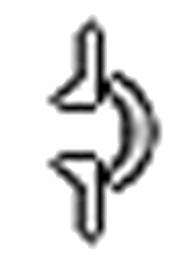
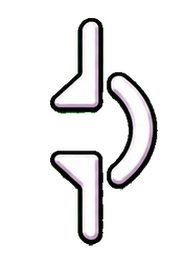
assets: prune sprite set options

Changed region(s): [[0.2557, 0.0312, 0.9375, 0.9688]]

diff --git a/src/flux_reticle/CombatPlugin.java b/src/flux_reticle/CombatPlugin.java
@@ -185,14 +185,10 @@ public class CombatPlugin implements EveryFrameCombatPlugin {
             SEG_TOP | SEG_UPPER_RIGHT | SEG_LOWER_RIGHT | SEG_BOTTOM | SEG_UPPER_LEFT | SEG_MIDDLE
     };
     static final String
-            DEFAULT_SPRITE_SET = "8xNearestEdgeCleaned",
+            DEFAULT_SPRITE_SET = "8xLanczosEdgeCleaned",
             SPRITE_SET_ROOT = "Root4xLanczos",
             SPRITE_SET_VANILLA = "Vanilla1x",
-            SPRITE_SET_4X_LANCZOS = "4xLanczos",
-            SPRITE_SET_4X_NEAREST = "4xNearest",
             SPRITE_SET_8X_LANCZOS_EDGE_CLEANED = "8xLanczosEdgeCleaned",
-            SPRITE_SET_8X_NEAREST_EDGE_CLEANED = "8xNearestEdgeCleaned",
-            SPRITE_SET_AI_GENERATED_FULL_8X = "AIGeneratedFullSet8x",
             DEFAULT_FRONT_SPRITE_VARIANT = "CurrentSpriteSet",
             FRONT_VARIANT_ROOT = "shat_fr/graphics/front_variants/";
     static final String[] FRONT_VARIANT_FOLDERS = new String[] {
@@ -597,11 +593,8 @@ public class CombatPlugin implements EveryFrameCombatPlugin {
     String getSpriteSetFolder(String configuredSpriteSet) {
         if (SPRITE_SET_ROOT.equals(configuredSpriteSet)) return "";
         if (SPRITE_SET_VANILLA.equals(configuredSpriteSet)) return "backup";
-        if (SPRITE_SET_4X_LANCZOS.equals(configuredSpriteSet)) return "upscaled_4x_lanczos";
-        if (SPRITE_SET_4X_NEAREST.equals(configuredSpriteSet)) return "upscaled_4x_nearest";
         if (SPRITE_SET_8X_LANCZOS_EDGE_CLEANED.equals(configuredSpriteSet)) return "upscaled_8x_lanczos_edge_cleaned";
-        if (SPRITE_SET_AI_GENERATED_FULL_8X.equals(configuredSpriteSet)) return "ai_generated_full_set_8x";
-        return "upscaled_8x_nearest_edge_cleaned";
+        return "upscaled_8x_lanczos_edge_cleaned";
     }
 
     SpriteAPI loadSpriteFromSet(String configuredSpriteSet, String fileName) throws IOException {

diff --git a/.agent/BRIEF.md b/.agent/BRIEF.md
@@ -13,11 +13,11 @@ Flux Reticle Fork is a buildable and deployable Starsector mod fork with a separ
 - Deploy name: `flux-reticle-fork-deploy`
 - Eventual public organization: `https://github.com/Shattersphere-Mods`
 
-The fork adds Luna/INI customization for reticle geometry, flux bar background border and fill inset, full-opacity hard/soft flux top dividers, divider height, optional soft-flux top divider, sprite-set selection including bundled AI-generated 8x art, front wing-gap sprite variants through `wings_100pct_further_apart`, optional 25/50/75 bar marker sprites, optional half-sprite markers at all bar marker positions, a reticle-local ship-system marker with optional charge-count text size/thickness controls anchored to the top of the flux bar, front cursor graphic scale, separate top/body lateral offsets, point-blank bar visibility, RGBA colors, high-flux flashing, and the separate flux-change flash pulse. The old upstream UI-color override gate is removed, so configured RGBA values apply directly.
+The fork adds Luna/INI customization for reticle geometry, flux bar background border and fill inset, full-opacity hard/soft flux top dividers, divider height, optional soft-flux top divider, sprite-set selection for bundled root, vanilla, and 8x Lanczos edge-cleaned art, front wing-gap sprite variants through `wings_100pct_further_apart`, optional 25/50/75 bar marker sprites, optional half-sprite markers at all bar marker positions, a reticle-local ship-system marker with optional charge-count text size/thickness controls anchored to the top of the flux bar, front cursor graphic scale, separate top/body lateral offsets, point-blank bar visibility, RGBA colors, high-flux flashing, and the separate flux-change flash pulse. The old upstream UI-color override gate is removed, so configured RGBA values apply directly.
 
 ## Known-Good Baseline
 
-- Latest runtime code baseline: sprite-set selector including the AI-generated full 8x set, front wing-gap sprite variants through `wings_100pct_further_apart`, optional 25/50/75 marker sprites, optional half-sprite markers at all bar marker positions, reticle-local ship-system marker ring with charge-count text size/thickness controls, flux fills under marker sprites, flux bar background border/fill inset/divider height controls, full-opacity hard/soft flux top dividers, optional soft-flux top divider, front cursor graphic scale, separate top/body lateral offsets, fixed logical sprite sizing for high-res assets, and flux-change flash toggle.
+- Latest runtime code baseline: sprite-set selector for bundled root, vanilla, and 8x Lanczos edge-cleaned art, front wing-gap sprite variants through `wings_100pct_further_apart`, optional 25/50/75 marker sprites, optional half-sprite markers at all bar marker positions, reticle-local ship-system marker ring with charge-count text size/thickness controls, flux fills under marker sprites, flux bar background border/fill inset/divider height controls, full-opacity hard/soft flux top dividers, optional soft-flux top divider, front cursor graphic scale, separate top/body lateral offsets, fixed logical sprite sizing for high-res assets, and flux-change flash toggle.
 - Latest deploy state observed in this pass: `waiting` for target `C:\Games\Starsector\mods\Flux Reticle Fork` after clean worktree deploy run `03b0b1e5-a826-4a02-8f92-37aa65c7f105` from `D:\Sean Mods\.deploy-worktrees\FluxReticle-260f899`; worker pid `34132` is queued because Starsector is running.
 - Last known-good build command: `powershell -ExecutionPolicy Bypass -File scripts\build_mod.ps1 -StarsectorDirectory 'C:\Games\Starsector'`.
 - Runtime behavior remains not in-game verified after recent rendering/settings changes.

diff --git a/HANDOVER.md b/HANDOVER.md
@@ -51,7 +51,7 @@ This repo is a working Starsector mod fork, not just source notes. Keep runtime 
 - Hard and soft flux top dividers render at full configured divider opacity whenever their flux segment exists; divider alpha is not scaled by the current flux amount.
 - Soft/hard flux fills render below the quarter/half/back marker sprites and hard-flux divider.
 - Reticle sprite assets are rendered at legacy logical dimensions, so 4x PNG replacements improve pixel density without making the reticle larger.
-- `spriteSet` is a Luna/INI selector for bundled sprite folders, including the AI-generated full 8x set. Default is `8xNearestEdgeCleaned`.
+- `spriteSet` is a Luna/INI selector for bundled sprite folders. Current selectable sets are root, vanilla backup, and `8xLanczosEdgeCleaned`; default is `8xLanczosEdgeCleaned`.
 - Distance settings are normalized to half the visible screen height.
 - `enableFluxChangeFlash` controls only the extra flux-change pulse; threshold-based flashing still follows the flash threshold/frequency settings.
 - `keepBarVisibleAtMinimumDistance` defaults on and prevents the flux bar from fading out at point blank range.

diff --git a/README.md b/README.md
@@ -32,7 +32,7 @@ Fork of Flux Reticle with a separate Starsector identity and LunaLib-facing cust
 - Optional 25%, 50%, and 75% bar marker sprites.
 - Option to use the half bar marker sprite at the quarter, middle, and three-quarter positions.
 - Optional soft-flux top divider using the same divider styling as the hard/soft boundary.
-- LunaLib sprite-set selector for the bundled vanilla, 4x, 8x, and AI-generated 8x reticle art sets.
+- LunaLib sprite-set selector for the bundled root, vanilla, and 8x Lanczos edge-cleaned reticle art sets.
 - LunaLib front sprite variant selector for bundled wing-gap frontKeyTurn/frontMouseTurn folders from `wings_05pct_further_apart` through `wings_100pct_further_apart`.
 - LunaLib settings are split into focused tabs for general controls, reticle art, flux bar geometry, system marker controls, flashing, and colours.
 - Configurable min/max cursor distance for bar scaling.

diff --git a/CHANGELOG.md b/CHANGELOG.md
@@ -1,5 +1,11 @@
 # Changelog
 
+## 1.23.0-fork.1 - 2026-05-17
+
+- Updated the active reticle sprite set list to match the remaining bundled art folders.
+- Defaulted the reticle sprite set to the 8x Lanczos edge-cleaned art.
+- Updated local deploy cleanup for the removed sprite-set folders.
+
 ## 1.22.1-fork.1 - 2026-05-17
 
 - Centered the single-charge `1` digit inside the ship-system marker ring.
